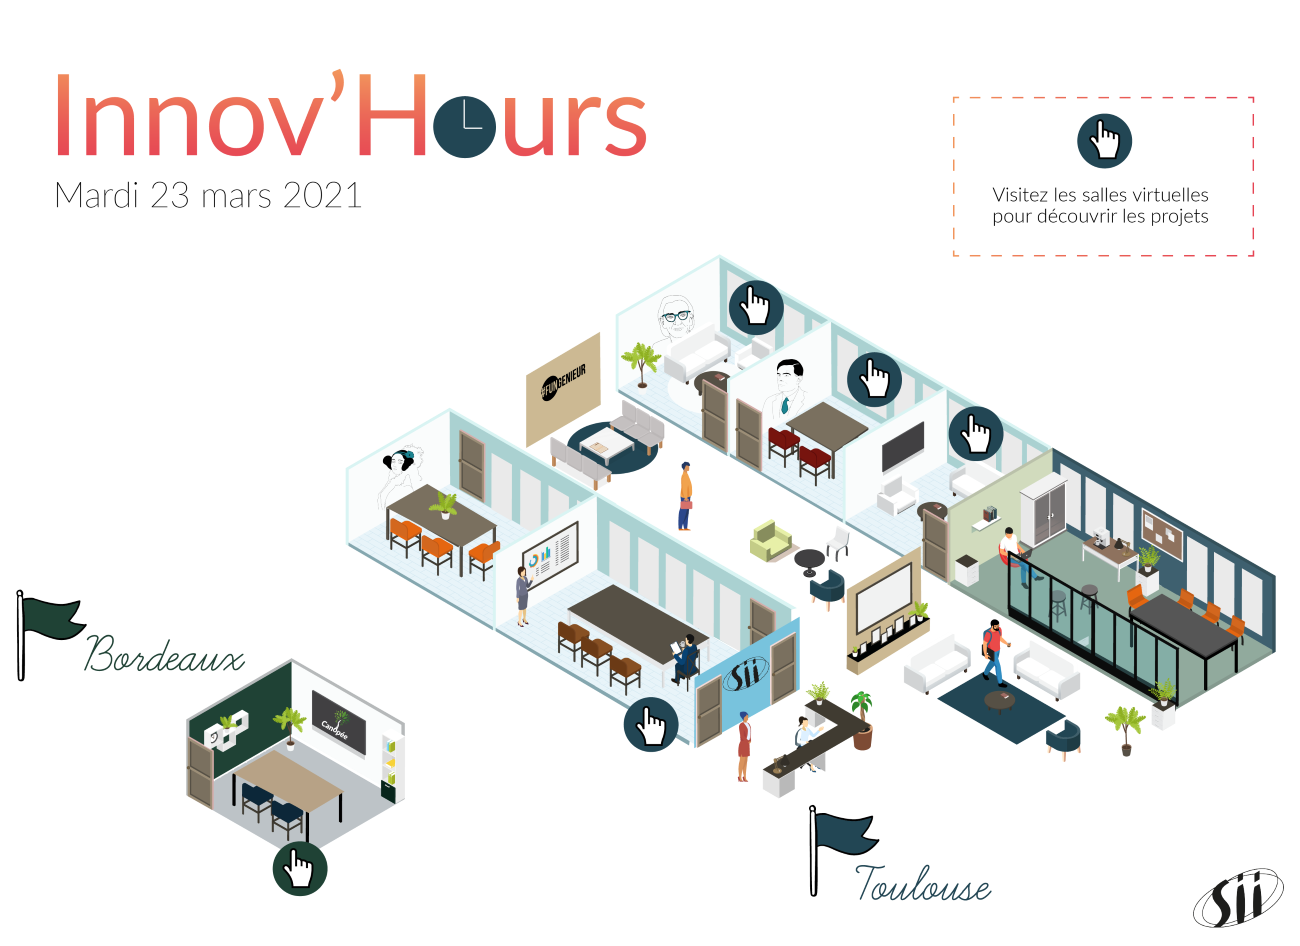
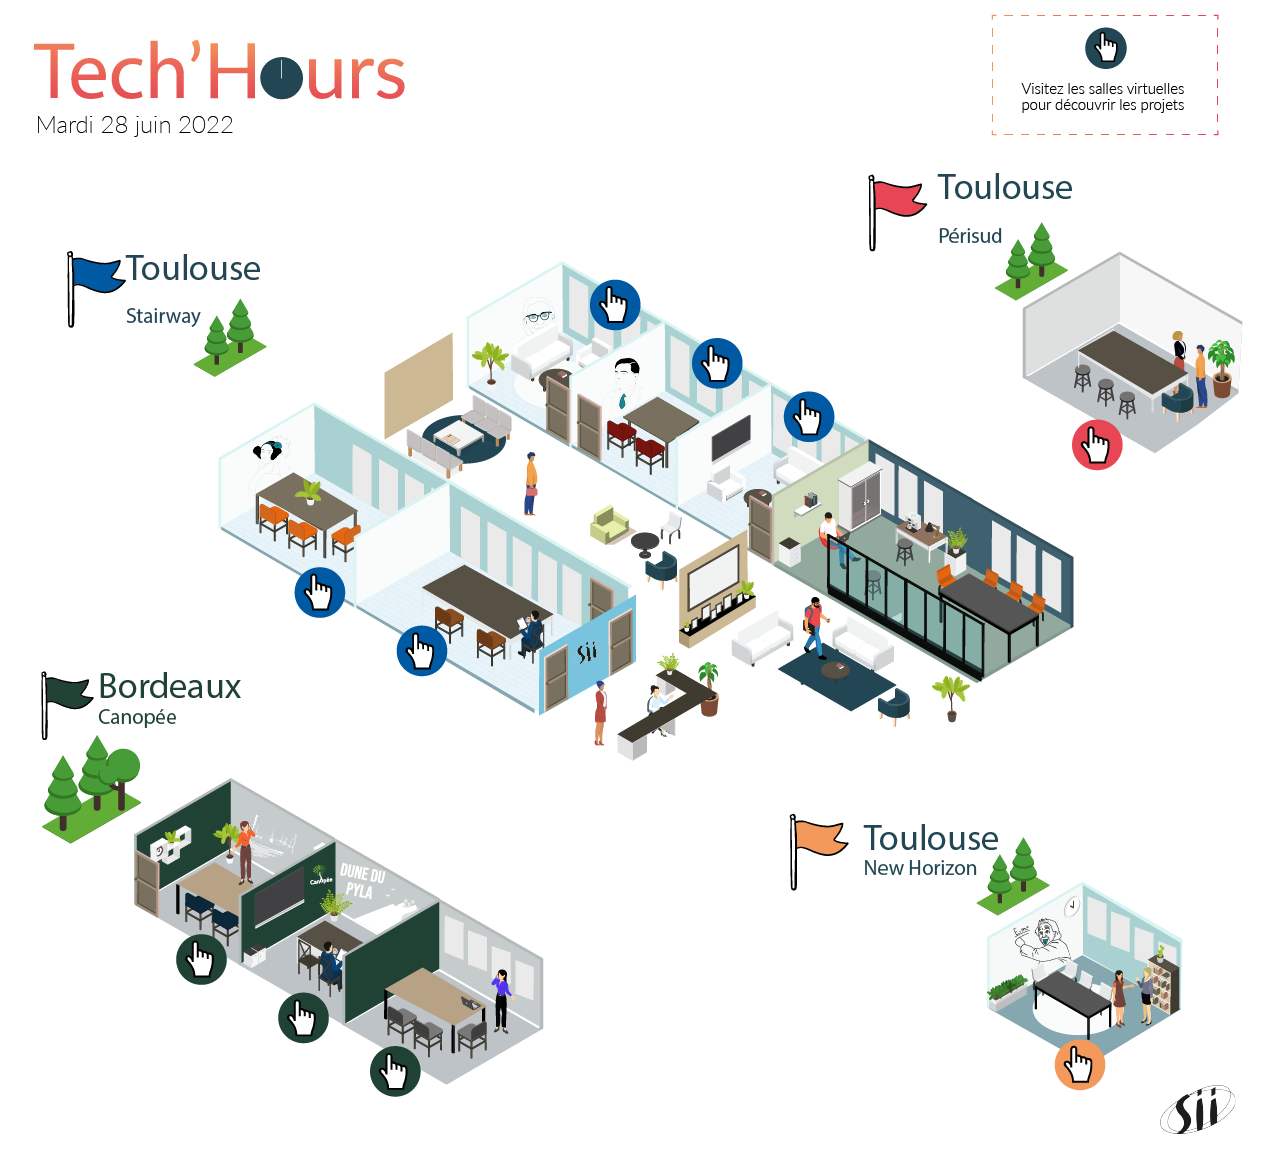
rajout de popups

diff --git a/index.html b/index.html
@@ -23,6 +23,11 @@
                             <img class="agrandir" src="img/insta.png" />
                         </button>
                     </div>
+                    <div class="thrid-room">
+                        <button type="button" id="popup3" class="button_insta" >
+                            <img class="agrandir" src="img/insta.png" />
+                        </button>
+                    </div>
                 </div>
             </div>
         </div>
@@ -32,7 +37,7 @@
         $('#popup1').popover({
             trigger: 'focus',
             placement: 'auto',
-            // container: 'body',
+            container: 'body',
             html: true,
             content: '<a href="https://voip-siinergy-net.3cx.net/open/f251354305bbf8d3583d5a5bde4b631e20638ed2"><img href="https://voip-siinergy-net.3cx.net/open/f251354305bbf8d3583d5a5bde4b631e20638ed2" src="img/POP-UP-01.png" id="popup-img1"></a>'
         })
@@ -43,6 +48,14 @@
             html: true,
             offset: '0 100px',
             content: '<a href="https://voip-siinergy-net.3cx.net/webrtc/open/896a3ea24c5c8e8eec29b1a28fd99b937027b1c9"><img href="https://voip-siinergy-net.3cx.net/webrtc/open/896a3ea24c5c8e8eec29b1a28fd99b937027b1c9" src="img/POP-UP-02.png" id="popup-img2"></a>'
+        })
+        $('#popup3').popover({
+            trigger: 'focus',
+            placement: 'auto',
+            container: 'body',
+            html: true,
+            offset: '0 100px',
+            content: '<a href="https://voip-siinergy-net.3cx.net/webrtc/open/896a3ea24c5c8e8eec29b1a28fd99b937027b1c9"><img href="https://voip-siinergy-net.3cx.net/webrtc/open/896a3ea24c5c8e8eec29b1a28fd99b937027b1c9" src="img/POP-UP-03.png" id="popup-img3"></a>'
         })
     </script>
 

diff --git a/style.css b/style.css
@@ -28,19 +28,26 @@ body, html {
 .first_room {
     z-index: 10;
     position: absolute;
-    width: 6%;
-    height: 6%;
-    top: 27.5%;
-    left: 55.5%;
+    width: 5%;
+    height: 5%;
+    top: 23%;
+    left: 45.5%;
 }
-
 .second-room {
     z-index: 10;
     position: absolute;
-    width: 6%;
-    height: 6%;
-    top: 35%;
-    left: 63%;
+    width: 5%;
+    height: 5%;
+    top: 27.5%;
+    left: 53.5%;
+}
+.thrid-room {
+    z-index: 10;
+    position: absolute;
+    width: 5%;
+    height: 5%;
+    top: 32.5%;
+    left: 61%;
 }
 
 .button_insta{
@@ -66,6 +73,11 @@ body, html {
     height: 350px;
 }
 #popup-img2 {
+    z-index: 200;
+    position: relative;
+    height: 350px;
+}
+#popup-img3 {
     z-index: 200;
     position: relative;
     height: 350px;
